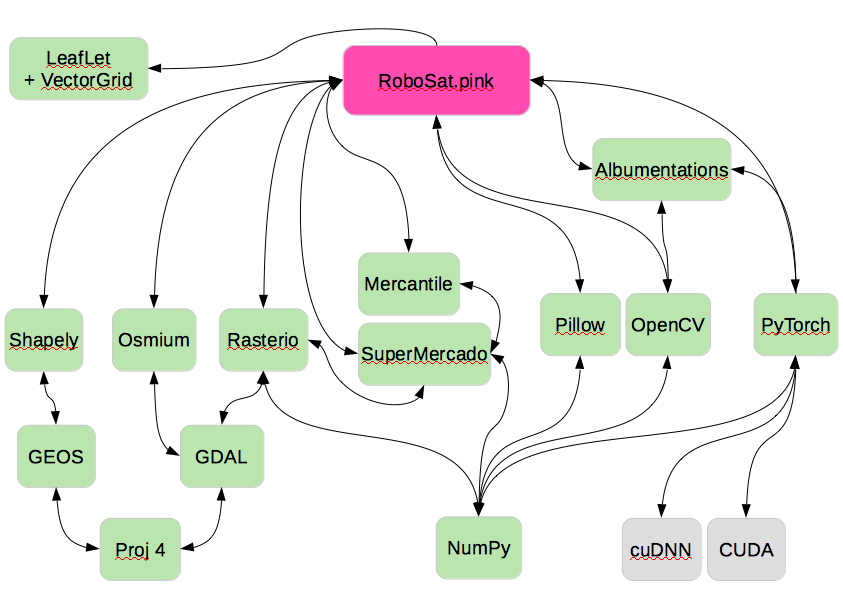
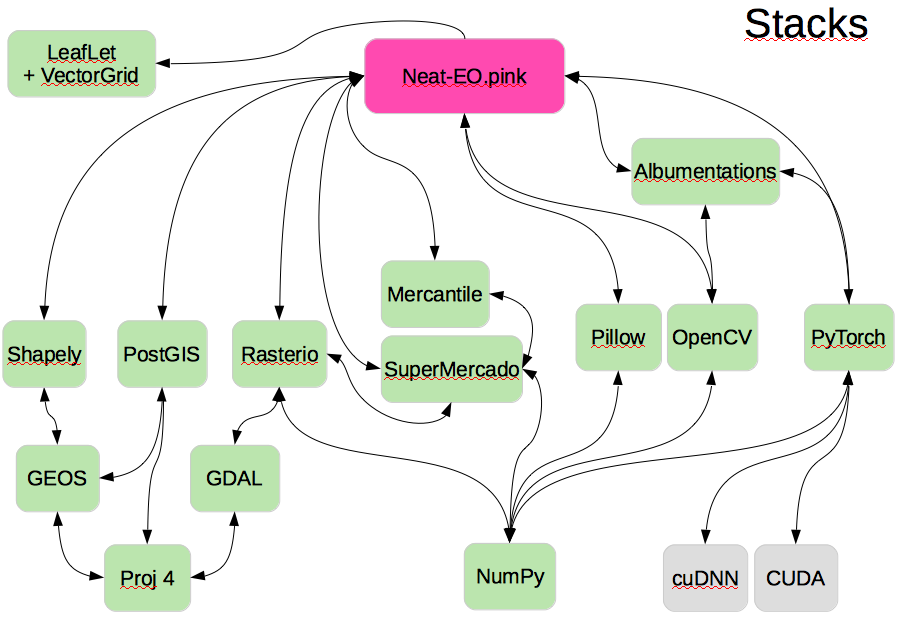
s/robosat/neat-eo/g image session

diff --git a/README.md b/README.md
@@ -27,7 +27,7 @@ Main Features:
 
 
 
-<img alt="Draw me Neat-EO.pink" src="https://raw.githubusercontent.com/datapink/robosat.pink/master/docs/img/readme/draw_me_robosat_pink.png" />
+<img alt="Draw me Neat-EO.pink" src="https://raw.githubusercontent.com/datapink/neat-eo.pink/master/docs/img/readme/draw_me_neat_eo.png" />
 
 
  
@@ -56,10 +56,7 @@ Documentation:
 - <a href="https://github.com/datapink/neat-eo.pink/blob/master/docs/tools.md#neo-info">`neo info`</a> Print Neat-EO.pink version informations
 
 ### Presentations slides:
-  - <a href="http://www.datapink.com/presentations/2019-sotm.pdf">@SOTM 2019</a>
-  - <a href="http://www.datapink.com/presentations/2019-foss4g-cv.pdf">@FOSS4G 2019</a>
-  - <a href="http://www.datapink.com/presentations/2019-poss.pdf">@POSS 2019</a>
-
+  - <a href="http://www.datapink.com/presentations/2020-fosdem.pdf">@FOSDEM 2020</a>
 
 
 
@@ -106,7 +103,7 @@ Architecture:
 
 Neat-EO.pink use cherry-picked Open Source libs among Deep Learning, Computer Vision and GIS stacks.
 
-<img alt="Stacks" src="https://raw.githubusercontent.com/datapink/robosat.pink/master/docs/img/readme/stacks.png" />
+<img alt="Stacks" src="https://raw.githubusercontent.com/datapink/Neat-EO.pink/master/docs/img/readme/stacks.png" />
 
 
 
